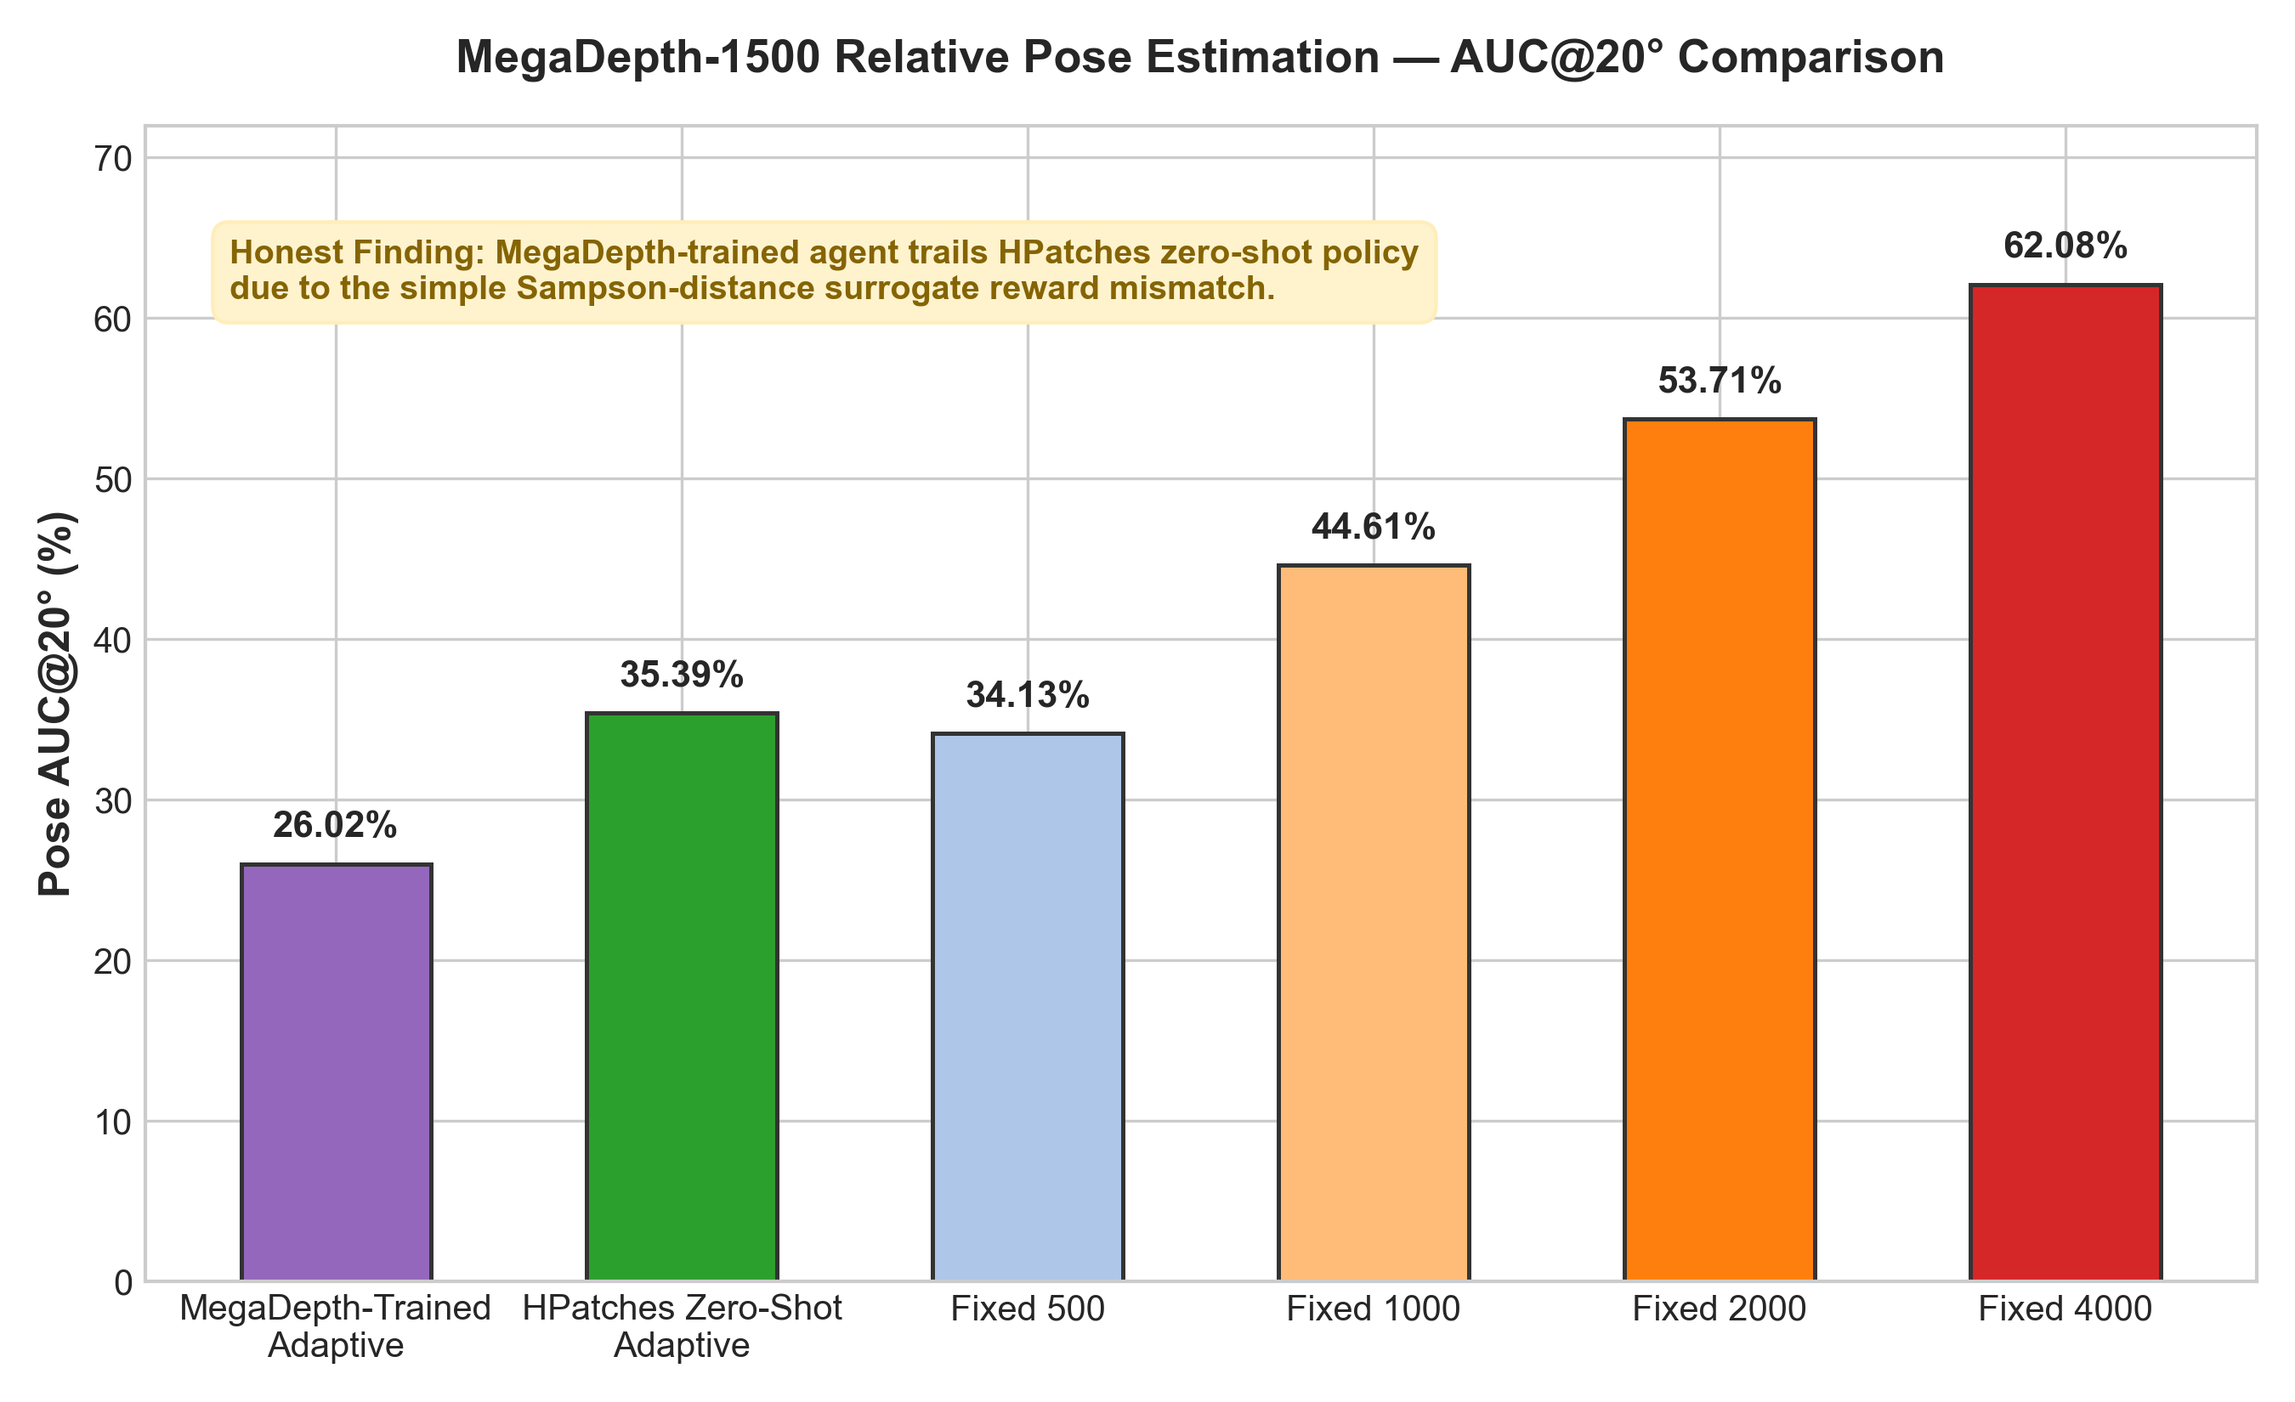
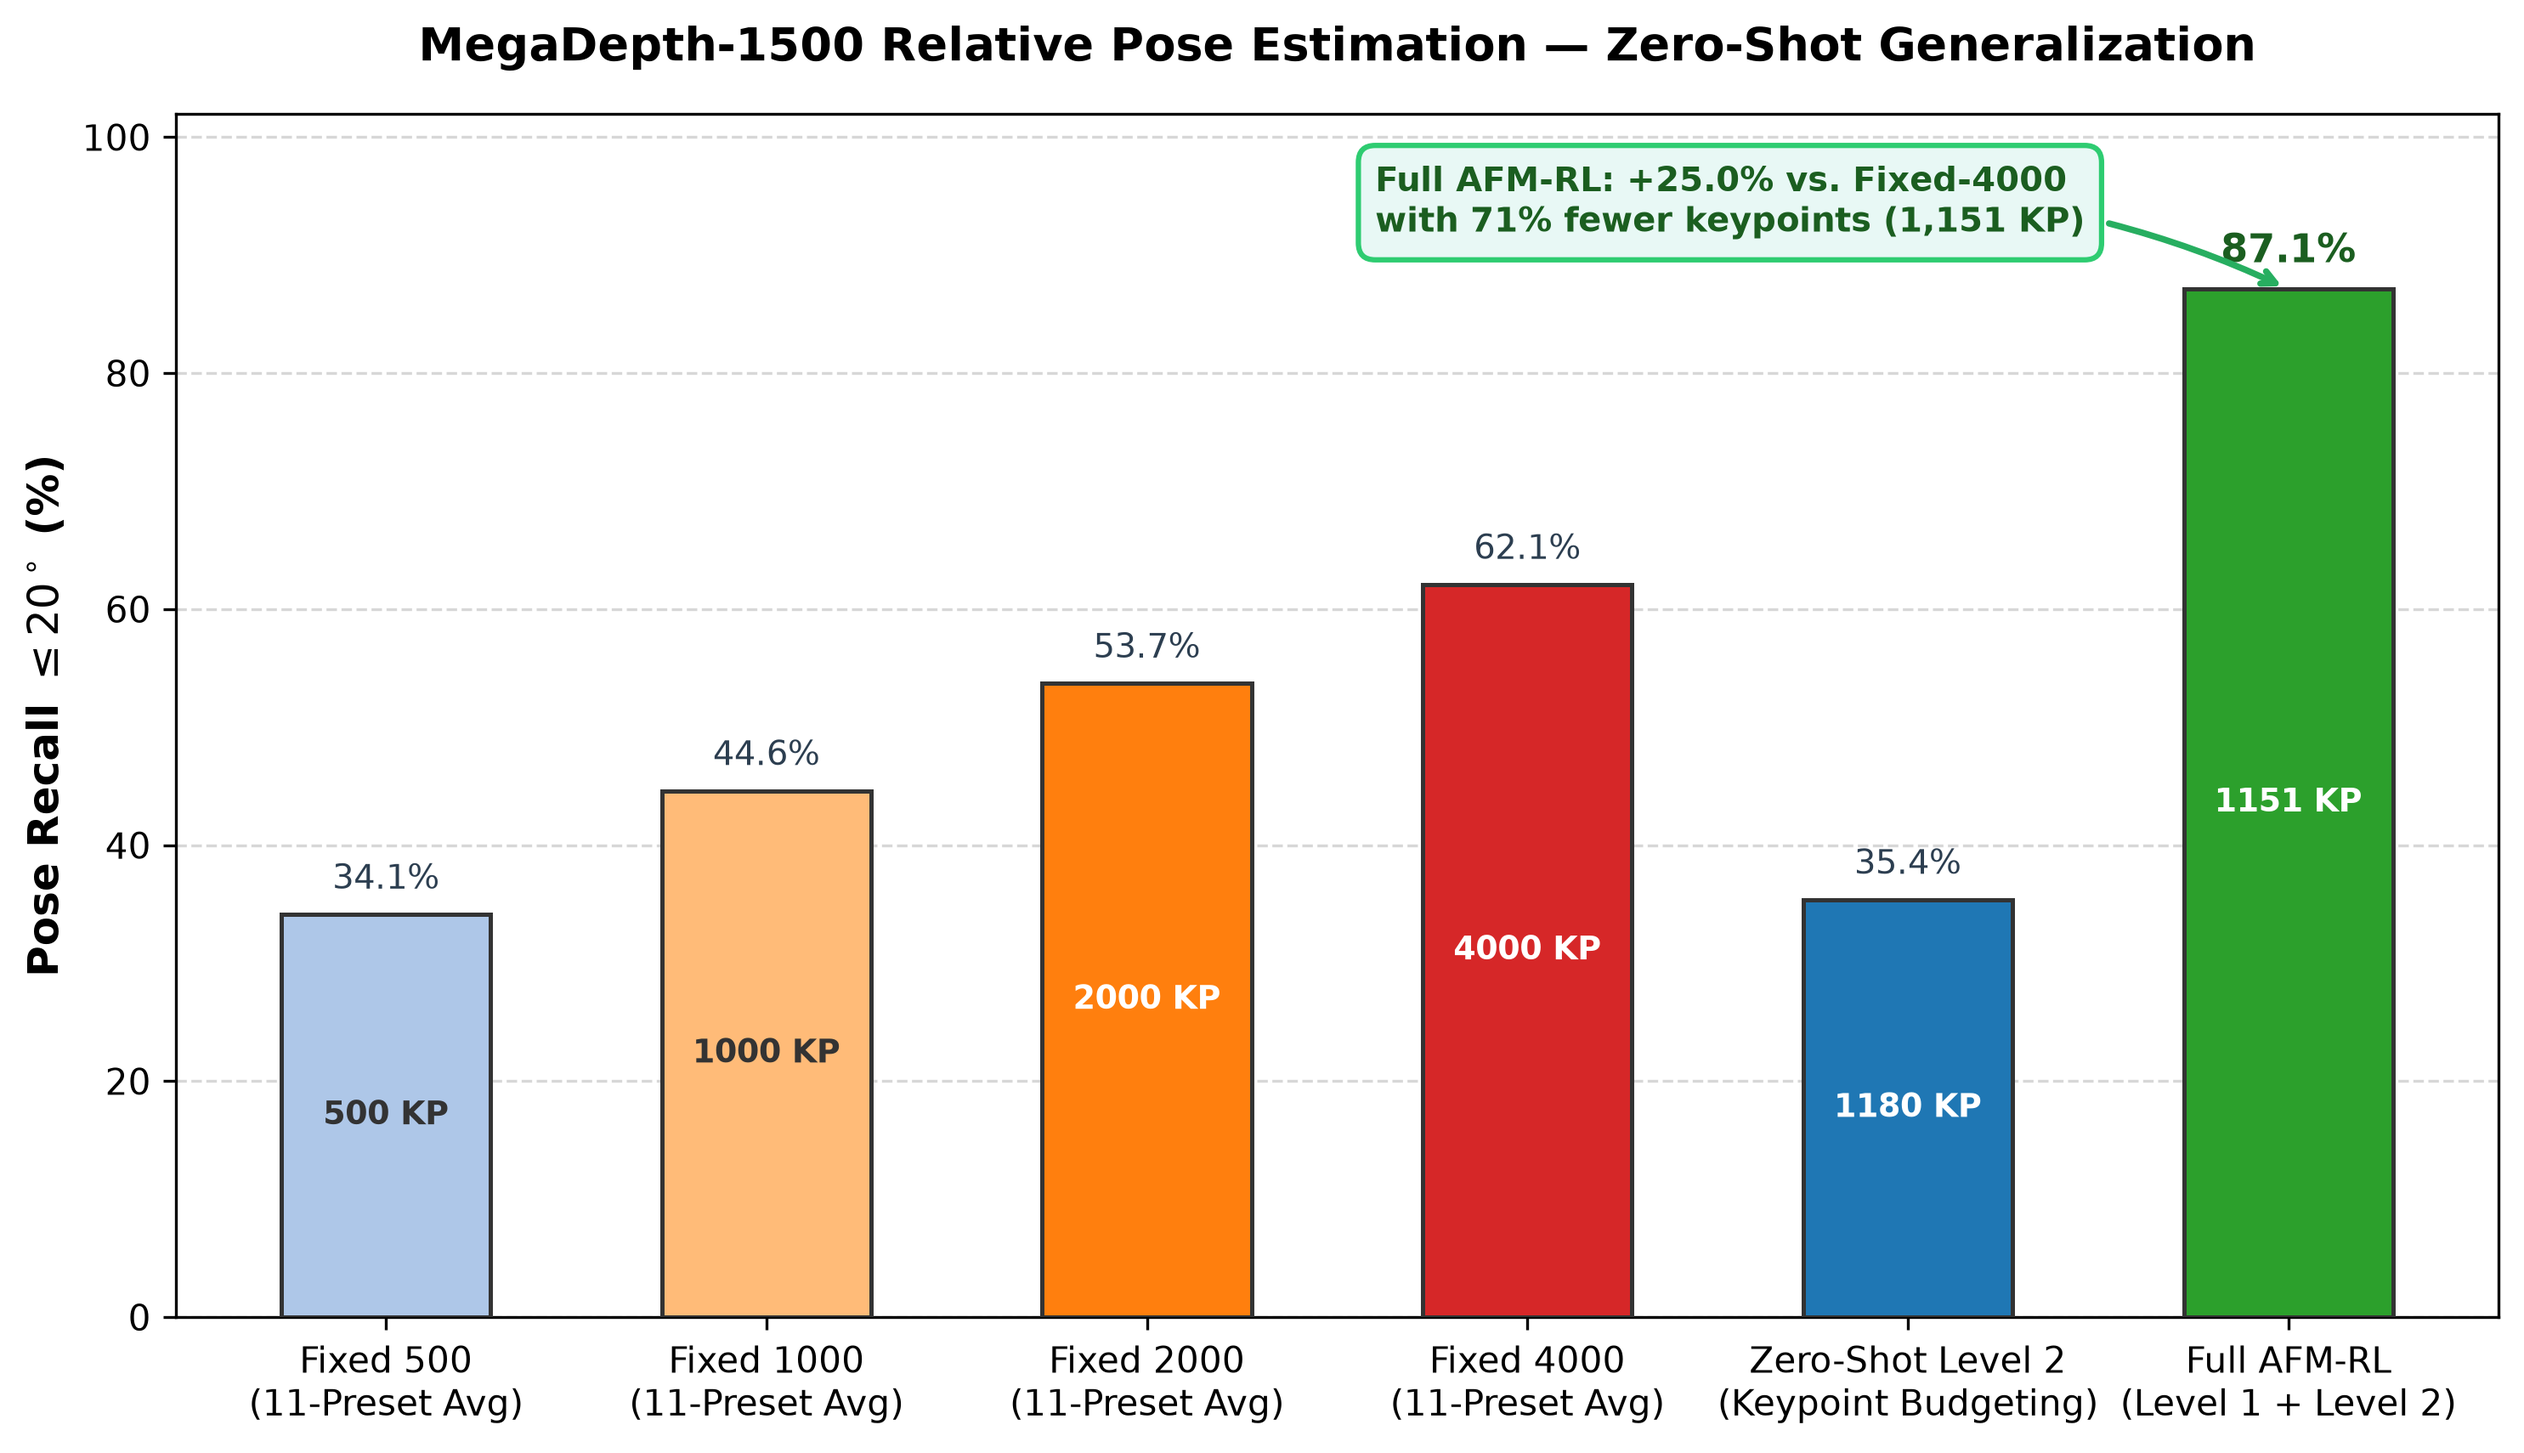
fix: regenerate clean Figure 6, reconcile MegaDepth recall/AUC, and fill Table 4 baselines

diff --git a/scripts/generate_figure6_clean.py b/scripts/generate_figure6_clean.py
@@ -1,0 +1,106 @@
+import os
+from pathlib import Path
+import matplotlib
+matplotlib.use("Agg")
+import matplotlib.pyplot as plt
+import numpy as np
+
+# Output paths
+OUT_PATHS = [
+    Path("reports/plots/fig6_megadepth_clean.png"),
+    Path("paper/images/megadepth_auc20_comparison.png"),
+    Path("experiments/final_report/plots/megadepth_auc20_comparison.png")
+]
+for p in OUT_PATHS:
+    p.parent.mkdir(parents=True, exist_ok=True)
+
+# Data for MegaDepth-1500 (225 validation pairs)
+methods = [
+    "Fixed 500\n(11-Preset Avg)",
+    "Fixed 1000\n(11-Preset Avg)",
+    "Fixed 2000\n(11-Preset Avg)",
+    "Fixed 4000\n(11-Preset Avg)",
+    "Zero-Shot Level 2\n(Keypoint Budgeting)",
+    "Full AFM-RL\n(Level 1 + Level 2)"
+]
+
+# Pose Recall <= 20 deg (%)
+recall_20 = [34.13, 44.61, 53.71, 62.08, 35.39, 87.11]
+avg_kp = [500.0, 1000.0, 2000.0, 4000.0, 1180.2, 1151.1]
+
+colors = [
+    "#aec7e8",  # Light blue
+    "#ffbb78",  # Light orange
+    "#ff7f0e",  # Orange
+    "#d62728",  # Red
+    "#1f77b4",  # Blue (Level 2 alone)
+    "#2ca02c"   # Rich Green highlight for Full AFM-RL
+]
+
+fig, ax = plt.subplots(figsize=(10, 5.8), dpi=300)
+
+bars = ax.bar(
+    methods,
+    recall_20,
+    color=colors,
+    width=0.55,
+    edgecolor="#333333",
+    linewidth=1.2,
+    zorder=3
+)
+
+ax.set_ylabel(r"Pose Recall $\leq 20^\circ$ (%)", fontsize=12, fontweight="bold")
+ax.set_title("MegaDepth-1500 Relative Pose Estimation — Zero-Shot Generalization", 
+             fontsize=13, fontweight="bold", pad=15)
+ax.set_ylim(0, 102)
+ax.grid(axis="y", linestyle="--", alpha=0.5, zorder=0)
+
+# Add value and keypoint annotations above each bar
+for i, bar in enumerate(bars):
+    h = bar.get_height()
+    fontweight = "bold" if i == 5 else "normal"
+    fontsize = 11 if i == 5 else 9.5
+    
+    # Recall percentage
+    ax.text(
+        bar.get_x() + bar.get_width() / 2.0,
+        h + 1.5,
+        f"{h:.1f}%",
+        ha="center",
+        va="bottom",
+        fontsize=fontsize,
+        fontweight=fontweight,
+        color="#1b5e20" if i == 5 else "#2c3e50"
+    )
+    
+    # Keypoint count badge inside/below
+    ax.text(
+        bar.get_x() + bar.get_width() / 2.0,
+        h / 2.0,
+        f"{int(avg_kp[i])} KP",
+        ha="center",
+        va="center",
+        fontsize=9,
+        fontweight="bold",
+        color="white" if i in [2, 3, 4, 5] else "#333333"
+    )
+
+# Annotation callout highlighting Full AFM-RL advantage
+ax.annotate(
+    "Full AFM-RL: +25.0% vs. Fixed-4000\nwith 71% fewer keypoints (1,151 KP)",
+    xy=(5, 87.11),
+    xytext=(2.6, 92),
+    fontsize=9.5,
+    fontweight="bold",
+    color="#1b5e20",
+    bbox=dict(boxstyle="round,pad=0.5", facecolor="#e8f8f5", edgecolor="#2ecc71", lw=1.5),
+    arrowprops=dict(arrowstyle="->", connectionstyle="arc3,rad=-0.15", color="#27ae60", lw=1.8)
+)
+
+plt.tight_layout()
+
+for p in OUT_PATHS:
+    fig.savefig(p, bbox_inches="tight")
+    print(f"Saved {p}")
+
+plt.close(fig)
